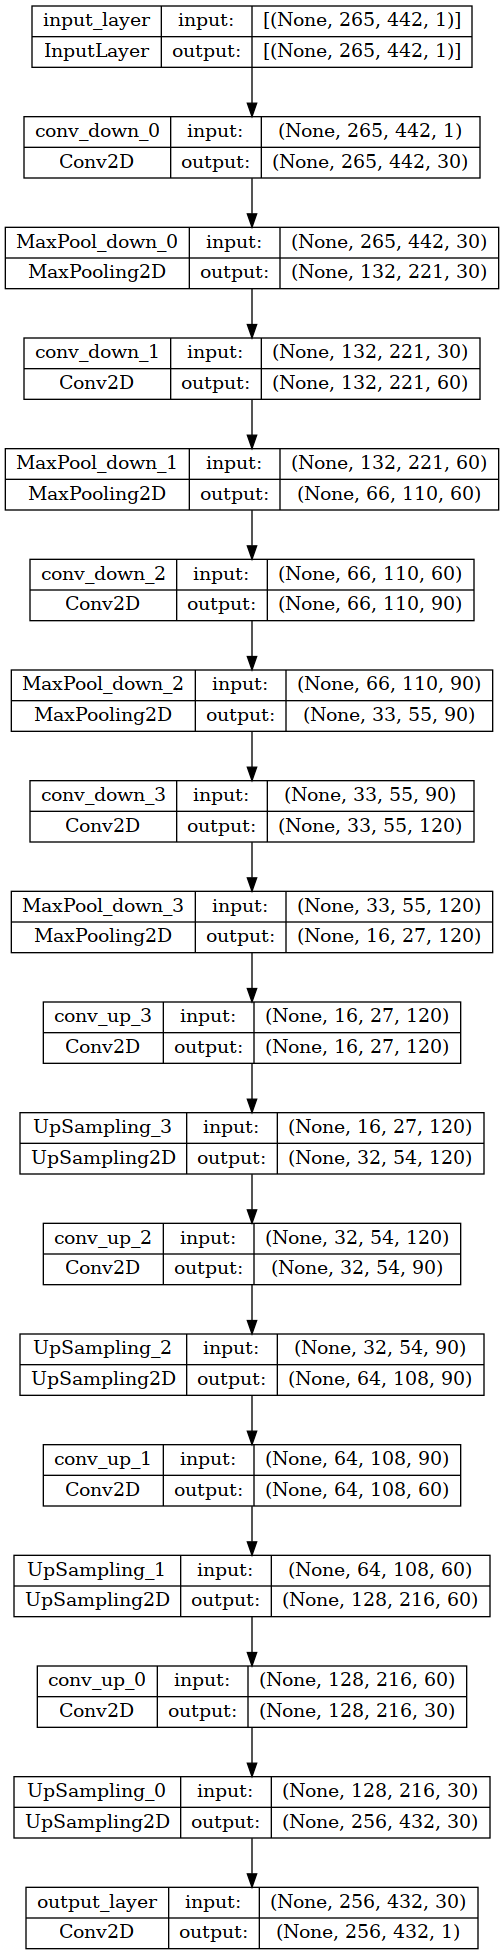
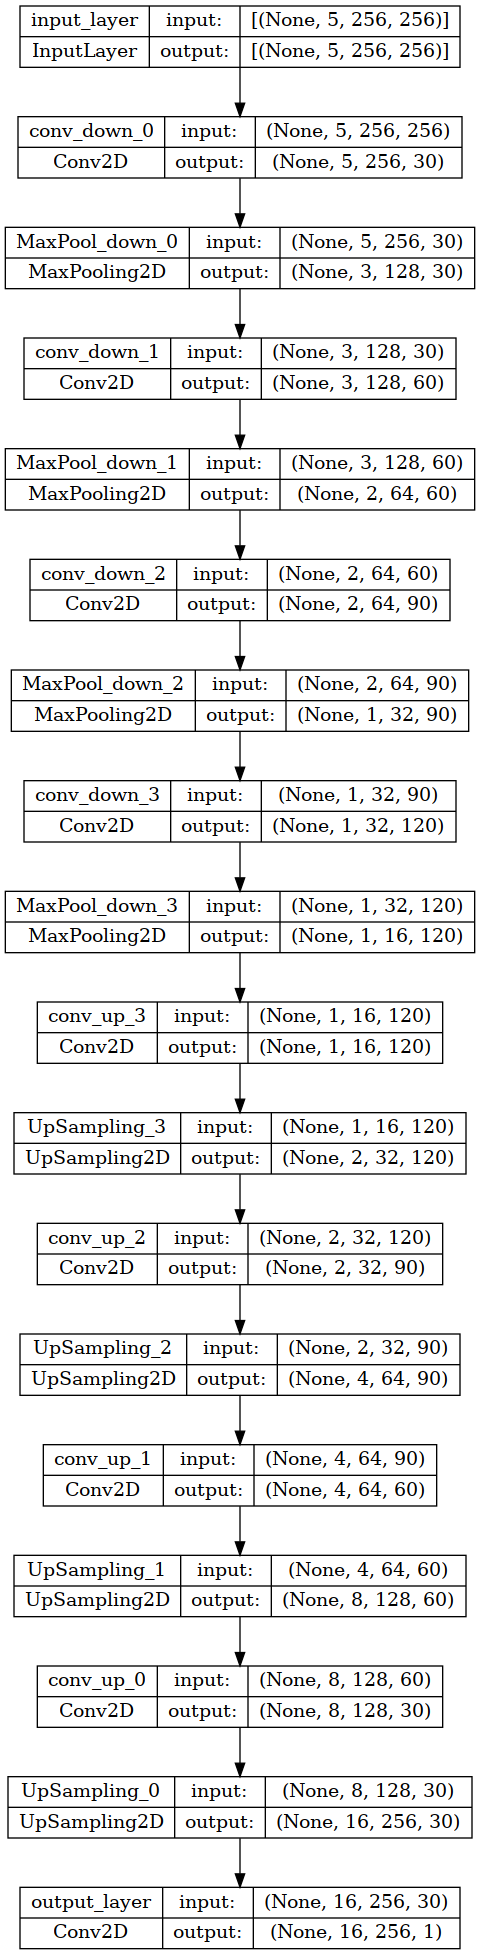
fixed y to resize with x

diff --git a/base.py b/base.py
@@ -324,7 +324,7 @@ def execute_exp(args=None, multi_gpus=False):
     # print(shape)
     
     for element in ds_train:
-        print(element)
+        # print(element)
         break
     
     print('Data Loaded')
@@ -336,14 +336,14 @@ def execute_exp(args=None, multi_gpus=False):
     # Create the model
     
     model = create_unet_network(
-                                        input_shape= (265, 442, 1),
+                                        input_shape = (5,256,256),
                                         n_filters=args.n_filters,
                                         kernelSize=args.kernelSize,
                                         pool_size=args.pool_size,
                                         spatial_dropout=args.spatial_dropout,
                                         padding=args.padding,
                                         activation_convolution=args.activation_convolution,
-                                        output_shape = (265,442),
+                                        output_shape = (256,256),
                                         lrate=args.lrate,
                                         kernel=kernel,
                                         )

diff --git a/datahandle/data_loader.py b/datahandle/data_loader.py
@@ -51,33 +51,34 @@ def data_loader(filename = None, test_size = 0.2, random_state = 42, batch_size 
     
     # Load the data into X and y 
     X = data['XC']
-    y = data['EM'] 
+    Y = data['EM'] 
     
     # Preprocessing steps 
     X = X.to_list()
     X = np.ma.getdata(X)
     X = X[:,0,:,:]
     
-    y = y.to_list()
-    y = np.array(y)
-    y = np.where(y > treshold, 1, 0) 
+    Y = Y.to_list()
+    Y = np.array(Y)
+    Y = np.where(Y > treshold, 1, 0) 
     
     # # Convert to float32  
     X = X.astype('float32')
-    y = y.astype('float32')
+    Y = Y.astype('float32')
     
     # Resize to make it 256,256 (2^x)
     X_resized = []
-    for x in X:
+    Y_resized = []
+    for x,y in zip(X,Y):
         X_resized.append(np.resize(x, (256,256)))
-    
+        Y_resized.append(np.resize(Y, (256,256)))
     
     # Build a history of 5 prior days: 
     X_new = []
     for i in range(5, len(X_resized)):
         X_new.append(np.array(X_resized[i-5:i]))
 
-    y_new = y[5:len(y)]
+    y_new = Y[5:len(Y)]
     
     # Split data 
     # test_size = 0.2

diff --git a/unet/model.py b/unet/model.py
@@ -69,7 +69,6 @@ def create_unet_network(
   # Output layer 
   model1.add(Conv2D(1 , (1,1), padding = 'same', activation = 'sigmoid', name = 'output_layer'))
   
-  model1.add(Reshape(output_shape))
   # optimizer
   opt = tf.keras.optimizers.Adam(learning_rate=lrate)
 
